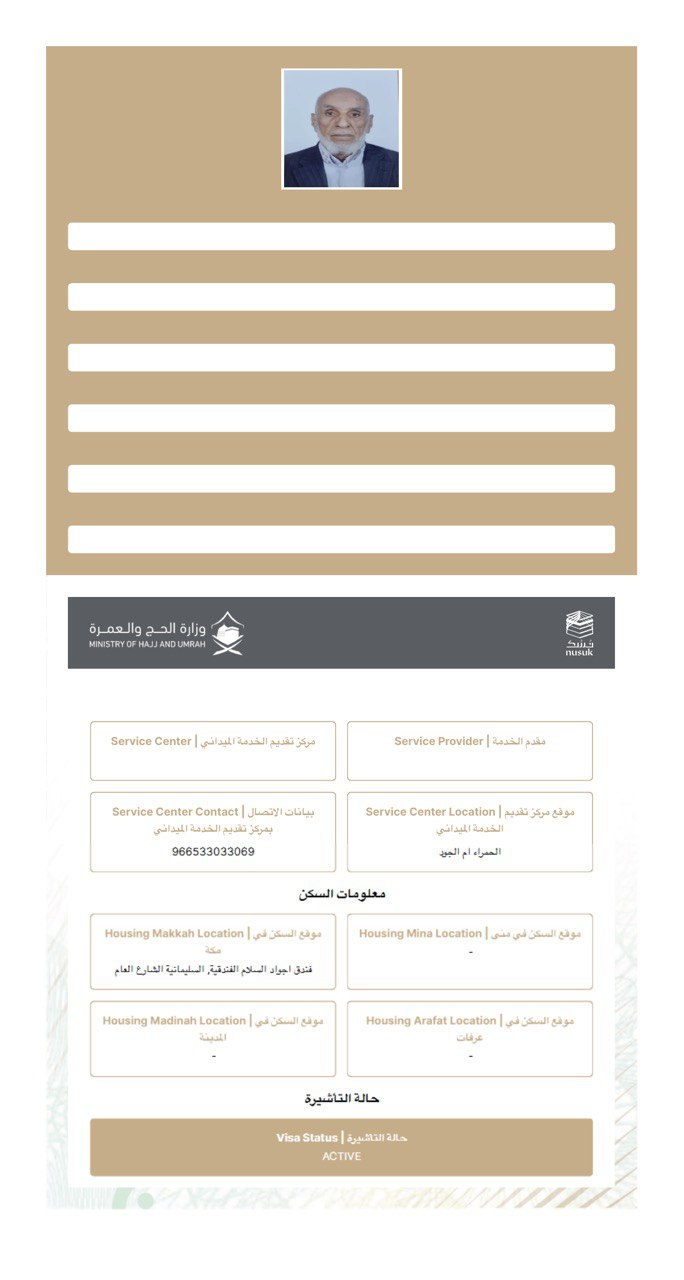
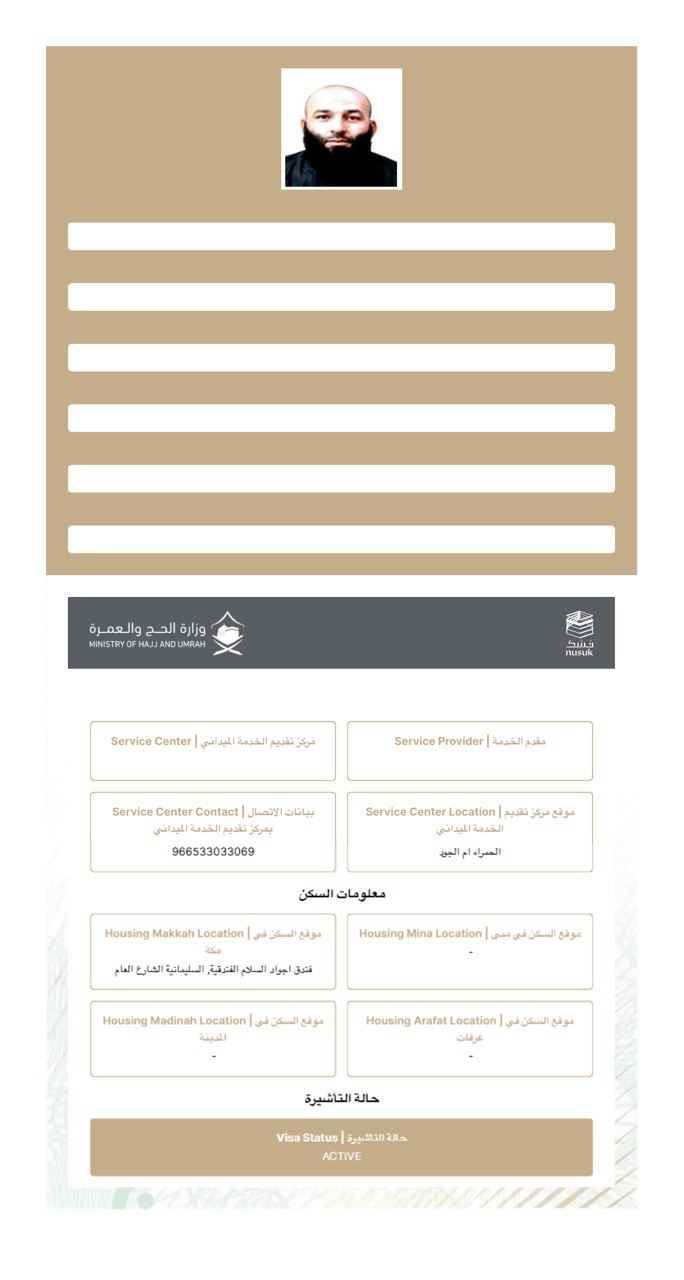
Add files via upload

Changed region(s): [[0.3991, 0.0312, 0.5833, 0.1562]]

diff --git a/213245/index.html b/213245/index.html
@@ -412,7 +412,7 @@ pdf2htmlEX.defaultViewer = new pdf2htmlEX.Viewer({});
     </div>
     
     <div id="page-container">
-    <div id="pf1" class="pf w0 h0" data-page-no="1"><div class="pc pc1 w0 h0 opened"><img class="bi x0 y0 w1 h1" alt="" src="./213245/img1.jpg"><div class="c x1 y1 w2 h2"><div class="t m0 x2 h3 y2 ff1 fs0 fc0 sc0 lsd ws0">!"#$%&amp;'(")*+,<span class="_"> </span><span class="ls0">-<span class="ff2 ls6 ws1">!"#$</span><span class="ls4 ws2">,%<span class="ff2 lse">%&amp;'(</span></span></span></div><div class="t m0 x3 h4 y3 ff3 fs0 fc1 sc0 ls1 ws3" style="direction: rtl;">بلعشية محمد<span class="ff4 lsf ws1b"> </span><span class="lsd ws4"></span></div><div class="t m0 x2 h3 y4 ff1 fs0 fc0 sc0 lsf ws5">!"#$%&amp;./01*23,<span class="_"> </span>-<span class="ff2 ls5 ws6">)*+,-./0(</span><span class="ls4 ws2">,%<span class="ff2 lse">%&amp;'(</span></span></div><div class="t m0 x4 h4 y5 lato-bold fs0 fc1 sc0 ls10 ws1b">BELAICHA MOHAMMED</div><div class="t m0 x2 h3 y6 ff1 fs0 fc0 sc0 ls2 ws7">4*2"%56<span class="_"> </span><span class="ls4 ws2">56<span class="ff2 lsf ws8">1<span class="_ _2"></span>#,2345(<span class="ff1 ls3">%</span><span class="lse ws9">%6<span class="_ _2"></span>7</span></span></span></div><div class="t m0 x5 h4 y7 inter-nember fs0 fc1 sc0 ls4 wsa">6101247496</div><div class="t m0 x2 h3 y8 ff1 fs0 fc0 sc0 lsf wsb">78(9$(%!:#)$(<span class="_"> </span><span class="ls4 ws2">-%</span><span class="ff2 ws8">89<span class="_ _2"></span>:;(<span class="ff1 ls3">%</span><span class="lse ws9">%6<span class="_ _2"></span>#5(<span class="ff1 ls5 wsc">%,<span class="ls3">%</span></span><span class="ls11 wsd">&lt;=<span class="_ _0"></span>8<span class="_ _0"></span>&gt;<span class="_ _0"></span>5<span class="_ _0"></span>(<span class="_ _0"></span><span class="ff1 ls3">%</span></span>%6<span class="_ _2"></span>7</span></span></div><div class="t m0 x5 h4 y9 inter-nember fs0 fc1 sc0 ls4 wsa">6158458941</div><div class="t m0 x2 h3 ya ff1 fs0 fc0 sc0 lsd wse">!";*8/"1*;&lt;<span class="_"> </span><span class="ff2 ls5 ws6">),?@.5(</span></div><div class="t m0 x6 h4 yb ff4 fs0 fc1 sc0 ls12 wsf">Algeria<span class="_"> </span><span class="ff3 ls13 ws10">الجزائر </span></div><div class="t m0 x2 h3 yc ff1 fs0 fc0 sc0 lse ws11">=$/9$(<span class="_"> </span><span class="ff2 ls5 ws6">A@B</span></div><div class="t m0 x6 h4 yd ff4 fs0 fc1 sc0 lsd ws12">Male<span class="_"> </span><span class="ff3 ls13 ws10">ذكر </span></div><div class="t m0 x7 h4 ye ff3 fs0 fc0 sc0 lse ws9" style="direction: ltr;">/012,*<span class="ff4 lsf ws1b"> </span><span class="ls12 ws13">3"4<span class="ff4 lsf">-</span></span></div><div class="t m0 x8 h4 yf ff4 fs0 fc0 sc0 ls4 ws1b">Package T<span class="_ _2"></span>ype</div><div class="t m0 x9 h4 y10 ff4 fs0 fc0 sc0 lsf">-</div><div class="t m0 xa h5 y11 ff3 fs1 fc1 sc0 ls14 ws14" style="direction: ltr;">/5&amp;6,*<span class="ff5 lsf ws1b"> <span class="ff3 ws15" style="direction: ltr;">7$&amp;89</span> </span>/-<span class="_ _4"></span>(:</div><div class="t m0 xb h4 y12 ff4 fs0 fc2 sc0 lsf ws1b"><span class="fc4 sc0">S</span><span class="fc4 sc0">e</span><span class="fc4 sc0">r</span><span class="fc4 sc0">v</span><span class="fc4 sc0">i</span><span class="fc4 sc0">c</span><span class="fc4 sc0">e</span><span class="fc4 sc0"> </span><span class="fc4 sc0">Ce</span><span class="fc4 sc0">n</span><span class="fc4 sc0">t</span><span class="fc4 sc0">e</span><span class="fc4 sc0">r</span><span class="lsd"><span class="fc4 sc0"> </span><span class="fc4 sc0">| </span><span class="ff3 lse ws9"><span class="fc4 sc0">;4</span><span class="fc4 sc0">*</span><span class="fc4 sc0">&amp;&lt;=*</span></span></span><span class="fc4 sc0"> </span><span class="ff3 lse ws9"><span class="fc4 sc0">/5&amp;6,*</span></span><span class="fc4 sc0"> </span><span class="ff3 ws8"><span class="fc4 sc0">7</span><span class="fc4 sc0">$</span><span class="fc4 sc0">&amp;</span><span class="fc4 sc0">89</span></span><span class="fc4 sc0"> </span><span class="ff3 ls13 ws10"><span class="fc4 sc0">'-</span><span class="_ _5"></span><span class="fc4 sc0">(5</span></span></div><div class="t m0 xc h3 y13 ff1 fs0 fc1 sc0 ls6 ws16">&gt;&gt;?<span class="ls3">%<span class="ff2 ls12 ws13">C'DE<span class="_ _5"></span>=<span class="ff1 ls3">%</span><span class="lsd ws4">#F(<span class="_ _3"></span>+.5(<span class="ff1 ls3">%</span><span class="ls5 ws6">)GD,H<span class="ff1 ls3">%</span></span>+E<span class="_ _5"></span>#I</span></span></span></div><div class="t m0 xd h4 y12 ff4 fs0 fc2 sc0 lsd ws1b"><span class="fc4 sc0">Ser</span><span class="fc4 sc0">vice </span><span class="fc4 sc0">Pr</span><span class="fc4 sc0">o</span><span class="_ _3"></span><span class="fc4 sc0">vider</span><span class="fc4 sc0"> </span><span class="fc4 sc0">| </span><span class="ff3 lse ws9"><span class="fc4 sc0">/5&amp;6,*</span></span><span class="lsf"><span class="fc4 sc0"> </span><span class="ff3 ws8"><span class="fc4 sc0">&gt;</span><span class="fc4 sc0">&amp;</span><span class="fc4 sc0">85</span></span></span></div><div class="t m0 xe h3 y13 ff2 fs0 fc1 sc0 ls5 ws6">)9D,?-5<span class="ff1 ls3">%</span><span class="ls6 ws1">J,K5(<span class="ff1 ls3">%</span><span class="lse ws9">L(<span class="_ _5"></span>#EM<span class="_ _1"></span><span class="ff1 ls3">%</span><span class="ls5 ws6">)E<span class="_ _4"></span>#2</span></span></span></div><div class="t m0 xf h4 y14 ff4 fs0 fc2 sc0 lsf ws1b"><span class="fc4 sc0">S</span><span class="fc4 sc0">e</span><span class="fc4 sc0">r</span><span class="fc4 sc0">v</span><span class="fc4 sc0">i</span><span class="fc4 sc0">c</span><span class="fc4 sc0">e</span><span class="fc4 sc0"> </span><span class="fc4 sc0">Ce</span><span class="fc4 sc0">n</span><span class="fc4 sc0">t</span><span class="fc4 sc0">e</span><span class="fc4 sc0">r</span><span class="fc4 sc0"> </span><span class="fc4 sc0">Co</span><span class="fc4 sc0">n</span><span class="fc4 sc0">t</span><span class="fc4 sc0">a</span><span class="fc4 sc0">c</span><span class="fc4 sc0">t</span><span class="lsd"><span class="fc4 sc0"> </span><span class="fc4 sc0">| </span><span class="ff3 ls12 ws13"><span class="fc4 sc0">?1</span><span class="fc4 sc0">@9</span><span class="fc4 sc0">A*</span></span></span><span class="fc4 sc0"> </span><span class="ff3 ls1 ws3"><span class="fc4 sc0">B</span><span class="fc4 sc0">141&lt;C</span></span></div><div class="t m0 x10 h4 y15 ff3 fs0 fc2 sc0 lse ws9"><span class="fc4 sc0">;4</span><span class="fc4 sc0">*</span><span class="fc4 sc0">&amp;&lt;=*</span><span class="ff4 lsf ws1b"><span class="fc4 sc0"> </span></span><span class="fc4 sc0">/5&amp;6,*</span><span class="ff4 lsf ws1b"><span class="fc4 sc0"> </span><span class="ff3 ws8"><span class="fc4 sc0">7</span><span class="fc4 sc0">$</span><span class="fc4 sc0">&amp;</span><span class="fc4 sc0">89</span></span><span class="fc4 sc0"> </span><span class="ff3 ws8"><span class="fc4 sc0">'</span><span class="fc4 sc0">-</span><span class="_ _5"></span><span class="fc4 sc0">(</span><span class="fc4 sc0">DC</span></span></span></div><div class="t m0 x8 h4 y14 ff4 fs0 fc2 sc0 lsf ws1b"><span class="fc4 sc0">S</span><span class="fc4 sc0">e</span><span class="fc4 sc0">r</span><span class="fc4 sc0">v</span><span class="fc4 sc0">i</span><span class="fc4 sc0">c</span><span class="fc4 sc0">e</span><span class="fc4 sc0"> </span><span class="fc4 sc0">Ce</span><span class="fc4 sc0">n</span><span class="fc4 sc0">t</span><span class="fc4 sc0">e</span><span class="fc4 sc0">r</span><span class="fc4 sc0"> </span><span class="fc4 sc0">L</span><span class="fc4 sc0">o</span><span class="fc4 sc0">c</span><span class="fc4 sc0">a</span><span class="fc4 sc0">t</span><span class="fc4 sc0">i</span><span class="fc4 sc0">o</span><span class="fc4 sc0">n</span><span class="lsd"><span class="fc4 sc0"> </span><span class="fc4 sc0">| </span></span><span class="ff3 ws8"><span class="fc4 sc0">7</span><span class="fc4 sc0">$</span><span class="fc4 sc0">&amp;</span><span class="fc4 sc0">89</span></span><span class="fc4 sc0"> </span><span class="ff3 ls13 ws10"><span class="fc4 sc0">'-</span><span class="_ _5"></span><span class="fc4 sc0">(5</span><span class="ff4 lsf ws1b"><span class="fc4 sc0"> </span></span><span class="ls7 ws17"><span class="fc4 sc0">E0</span><span class="fc4 sc0">"5</span></span></span></div><div class="t m0 x11 h4 y15 ff3 fs0 fc2 sc0 lse ws9"><span class="fc4 sc0">;4</span><span class="fc4 sc0">*</span><span class="fc4 sc0">&amp;&lt;=*</span><span class="ff4 lsf ws1b"><span class="fc4 sc0"> </span></span><span class="fc4 sc0">/5&amp;6,*</span></div>
+    <div id="pf1" class="pf w0 h0" data-page-no="1"><div class="pc pc1 w0 h0 opened"><img class="bi x0 y0 w1 h1" alt="" src="./213245/img1.jpg"><div class="c x1 y1 w2 h2"><div class="t m0 x2 h3 y2 ff1 fs0 fc0 sc0 lsd ws0">!"#$%&amp;'(")*+,<span class="_"> </span><span class="ls0">-<span class="ff2 ls6 ws1">!"#$</span><span class="ls4 ws2">,%<span class="ff2 lse">%&amp;'(</span></span></span></div><div class="t m0 x3 h4 y3 ff3 fs0 fc1 sc0 ls1 ws3" style="direction: rtl;">عبد الحق كنوش<span class="ff4 lsf ws1b"> </span><span class="lsd ws4"></span></div><div class="t m0 x2 h3 y4 ff1 fs0 fc0 sc0 lsf ws5">!"#$%&amp;./01*23,<span class="_"> </span>-<span class="ff2 ls5 ws6">)*+,-./0(</span><span class="ls4 ws2">,%<span class="ff2 lse">%&amp;'(</span></span></div><div class="t m0 x4 h4 y5 lato-bold fs0 fc1 sc0 ls10 ws1b">ABDELHAK KENOUCHE</div><div class="t m0 x2 h3 y6 ff1 fs0 fc0 sc0 ls2 ws7">4*2"%56<span class="_"> </span><span class="ls4 ws2">56<span class="ff2 lsf ws8">1<span class="_ _2"></span>#,2345(<span class="ff1 ls3">%</span><span class="lse ws9">%6<span class="_ _2"></span>7</span></span></span></div><div class="t m0 x5 h4 y7 inter-nember fs0 fc1 sc0 ls4 wsa">6108352023</div><div class="t m0 x2 h3 y8 ff1 fs0 fc0 sc0 lsf wsb">78(9$(%!:#)$(<span class="_"> </span><span class="ls4 ws2">-%</span><span class="ff2 ws8">89<span class="_ _2"></span>:;(<span class="ff1 ls3">%</span><span class="lse ws9">%6<span class="_ _2"></span>#5(<span class="ff1 ls5 wsc">%,<span class="ls3">%</span></span><span class="ls11 wsd">&lt;=<span class="_ _0"></span>8<span class="_ _0"></span>&gt;<span class="_ _0"></span>5<span class="_ _0"></span>(<span class="_ _0"></span><span class="ff1 ls3">%</span></span>%6<span class="_ _2"></span>7</span></span></div><div class="t m0 x5 h4 y9 inter-nember fs0 fc1 sc0 ls4 wsa">6188748921</div><div class="t m0 x2 h3 ya ff1 fs0 fc0 sc0 lsd wse">!";*8/"1*;&lt;<span class="_"> </span><span class="ff2 ls5 ws6">),?@.5(</span></div><div class="t m0 x6 h4 yb ff4 fs0 fc1 sc0 ls12 wsf">Algeria<span class="_"> </span><span class="ff3 ls13 ws10">الجزائر </span></div><div class="t m0 x2 h3 yc ff1 fs0 fc0 sc0 lse ws11">=$/9$(<span class="_"> </span><span class="ff2 ls5 ws6">A@B</span></div><div class="t m0 x6 h4 yd ff4 fs0 fc1 sc0 lsd ws12">Male<span class="_"> </span><span class="ff3 ls13 ws10">ذكر </span></div><div class="t m0 x7 h4 ye ff3 fs0 fc0 sc0 lse ws9" style="direction: ltr;">/012,*<span class="ff4 lsf ws1b"> </span><span class="ls12 ws13">3"4<span class="ff4 lsf">-</span></span></div><div class="t m0 x8 h4 yf ff4 fs0 fc0 sc0 ls4 ws1b">Package T<span class="_ _2"></span>ype</div><div class="t m0 x9 h4 y10 ff4 fs0 fc0 sc0 lsf">-</div><div class="t m0 xa h5 y11 ff3 fs1 fc1 sc0 ls14 ws14" style="direction: ltr;">/5&amp;6,*<span class="ff5 lsf ws1b"> <span class="ff3 ws15" style="direction: ltr;">7$&amp;89</span> </span>/-<span class="_ _4"></span>(:</div><div class="t m0 xb h4 y12 ff4 fs0 fc2 sc0 lsf ws1b"><span class="fc4 sc0">S</span><span class="fc4 sc0">e</span><span class="fc4 sc0">r</span><span class="fc4 sc0">v</span><span class="fc4 sc0">i</span><span class="fc4 sc0">c</span><span class="fc4 sc0">e</span><span class="fc4 sc0"> </span><span class="fc4 sc0">Ce</span><span class="fc4 sc0">n</span><span class="fc4 sc0">t</span><span class="fc4 sc0">e</span><span class="fc4 sc0">r</span><span class="lsd"><span class="fc4 sc0"> </span><span class="fc4 sc0">| </span><span class="ff3 lse ws9"><span class="fc4 sc0">;4</span><span class="fc4 sc0">*</span><span class="fc4 sc0">&amp;&lt;=*</span></span></span><span class="fc4 sc0"> </span><span class="ff3 lse ws9"><span class="fc4 sc0">/5&amp;6,*</span></span><span class="fc4 sc0"> </span><span class="ff3 ws8"><span class="fc4 sc0">7</span><span class="fc4 sc0">$</span><span class="fc4 sc0">&amp;</span><span class="fc4 sc0">89</span></span><span class="fc4 sc0"> </span><span class="ff3 ls13 ws10"><span class="fc4 sc0">'-</span><span class="_ _5"></span><span class="fc4 sc0">(5</span></span></div><div class="t m0 xc h3 y13 ff1 fs0 fc1 sc0 ls6 ws16">&gt;&gt;?<span class="ls3">%<span class="ff2 ls12 ws13">C'DE<span class="_ _5"></span>=<span class="ff1 ls3">%</span><span class="lsd ws4">#F(<span class="_ _3"></span>+.5(<span class="ff1 ls3">%</span><span class="ls5 ws6">)GD,H<span class="ff1 ls3">%</span></span>+E<span class="_ _5"></span>#I</span></span></span></div><div class="t m0 xd h4 y12 ff4 fs0 fc2 sc0 lsd ws1b"><span class="fc4 sc0">Ser</span><span class="fc4 sc0">vice </span><span class="fc4 sc0">Pr</span><span class="fc4 sc0">o</span><span class="_ _3"></span><span class="fc4 sc0">vider</span><span class="fc4 sc0"> </span><span class="fc4 sc0">| </span><span class="ff3 lse ws9"><span class="fc4 sc0">/5&amp;6,*</span></span><span class="lsf"><span class="fc4 sc0"> </span><span class="ff3 ws8"><span class="fc4 sc0">&gt;</span><span class="fc4 sc0">&amp;</span><span class="fc4 sc0">85</span></span></span></div><div class="t m0 xe h3 y13 ff2 fs0 fc1 sc0 ls5 ws6">)9D,?-5<span class="ff1 ls3">%</span><span class="ls6 ws1">J,K5(<span class="ff1 ls3">%</span><span class="lse ws9">L(<span class="_ _5"></span>#EM<span class="_ _1"></span><span class="ff1 ls3">%</span><span class="ls5 ws6">)E<span class="_ _4"></span>#2</span></span></span></div><div class="t m0 xf h4 y14 ff4 fs0 fc2 sc0 lsf ws1b"><span class="fc4 sc0">S</span><span class="fc4 sc0">e</span><span class="fc4 sc0">r</span><span class="fc4 sc0">v</span><span class="fc4 sc0">i</span><span class="fc4 sc0">c</span><span class="fc4 sc0">e</span><span class="fc4 sc0"> </span><span class="fc4 sc0">Ce</span><span class="fc4 sc0">n</span><span class="fc4 sc0">t</span><span class="fc4 sc0">e</span><span class="fc4 sc0">r</span><span class="fc4 sc0"> </span><span class="fc4 sc0">Co</span><span class="fc4 sc0">n</span><span class="fc4 sc0">t</span><span class="fc4 sc0">a</span><span class="fc4 sc0">c</span><span class="fc4 sc0">t</span><span class="lsd"><span class="fc4 sc0"> </span><span class="fc4 sc0">| </span><span class="ff3 ls12 ws13"><span class="fc4 sc0">?1</span><span class="fc4 sc0">@9</span><span class="fc4 sc0">A*</span></span></span><span class="fc4 sc0"> </span><span class="ff3 ls1 ws3"><span class="fc4 sc0">B</span><span class="fc4 sc0">141&lt;C</span></span></div><div class="t m0 x10 h4 y15 ff3 fs0 fc2 sc0 lse ws9"><span class="fc4 sc0">;4</span><span class="fc4 sc0">*</span><span class="fc4 sc0">&amp;&lt;=*</span><span class="ff4 lsf ws1b"><span class="fc4 sc0"> </span></span><span class="fc4 sc0">/5&amp;6,*</span><span class="ff4 lsf ws1b"><span class="fc4 sc0"> </span><span class="ff3 ws8"><span class="fc4 sc0">7</span><span class="fc4 sc0">$</span><span class="fc4 sc0">&amp;</span><span class="fc4 sc0">89</span></span><span class="fc4 sc0"> </span><span class="ff3 ws8"><span class="fc4 sc0">'</span><span class="fc4 sc0">-</span><span class="_ _5"></span><span class="fc4 sc0">(</span><span class="fc4 sc0">DC</span></span></span></div><div class="t m0 x8 h4 y14 ff4 fs0 fc2 sc0 lsf ws1b"><span class="fc4 sc0">S</span><span class="fc4 sc0">e</span><span class="fc4 sc0">r</span><span class="fc4 sc0">v</span><span class="fc4 sc0">i</span><span class="fc4 sc0">c</span><span class="fc4 sc0">e</span><span class="fc4 sc0"> </span><span class="fc4 sc0">Ce</span><span class="fc4 sc0">n</span><span class="fc4 sc0">t</span><span class="fc4 sc0">e</span><span class="fc4 sc0">r</span><span class="fc4 sc0"> </span><span class="fc4 sc0">L</span><span class="fc4 sc0">o</span><span class="fc4 sc0">c</span><span class="fc4 sc0">a</span><span class="fc4 sc0">t</span><span class="fc4 sc0">i</span><span class="fc4 sc0">o</span><span class="fc4 sc0">n</span><span class="lsd"><span class="fc4 sc0"> </span><span class="fc4 sc0">| </span></span><span class="ff3 ws8"><span class="fc4 sc0">7</span><span class="fc4 sc0">$</span><span class="fc4 sc0">&amp;</span><span class="fc4 sc0">89</span></span><span class="fc4 sc0"> </span><span class="ff3 ls13 ws10"><span class="fc4 sc0">'-</span><span class="_ _5"></span><span class="fc4 sc0">(5</span><span class="ff4 lsf ws1b"><span class="fc4 sc0"> </span></span><span class="ls7 ws17"><span class="fc4 sc0">E0</span><span class="fc4 sc0">"5</span></span></span></div><div class="t m0 x11 h4 y15 ff3 fs0 fc2 sc0 lse ws9"><span class="fc4 sc0">;4</span><span class="fc4 sc0">*</span><span class="fc4 sc0">&amp;&lt;=*</span><span class="ff4 lsf ws1b"><span class="fc4 sc0"> </span></span><span class="fc4 sc0">/5&amp;6,*</span></div>
 </div>
 </div><div class="pi" data-data="{&quot;ctm&quot;:[1.000000,0.000000,0.000000,1.000000,0.000000,0.000000]}"></div></div>
    
